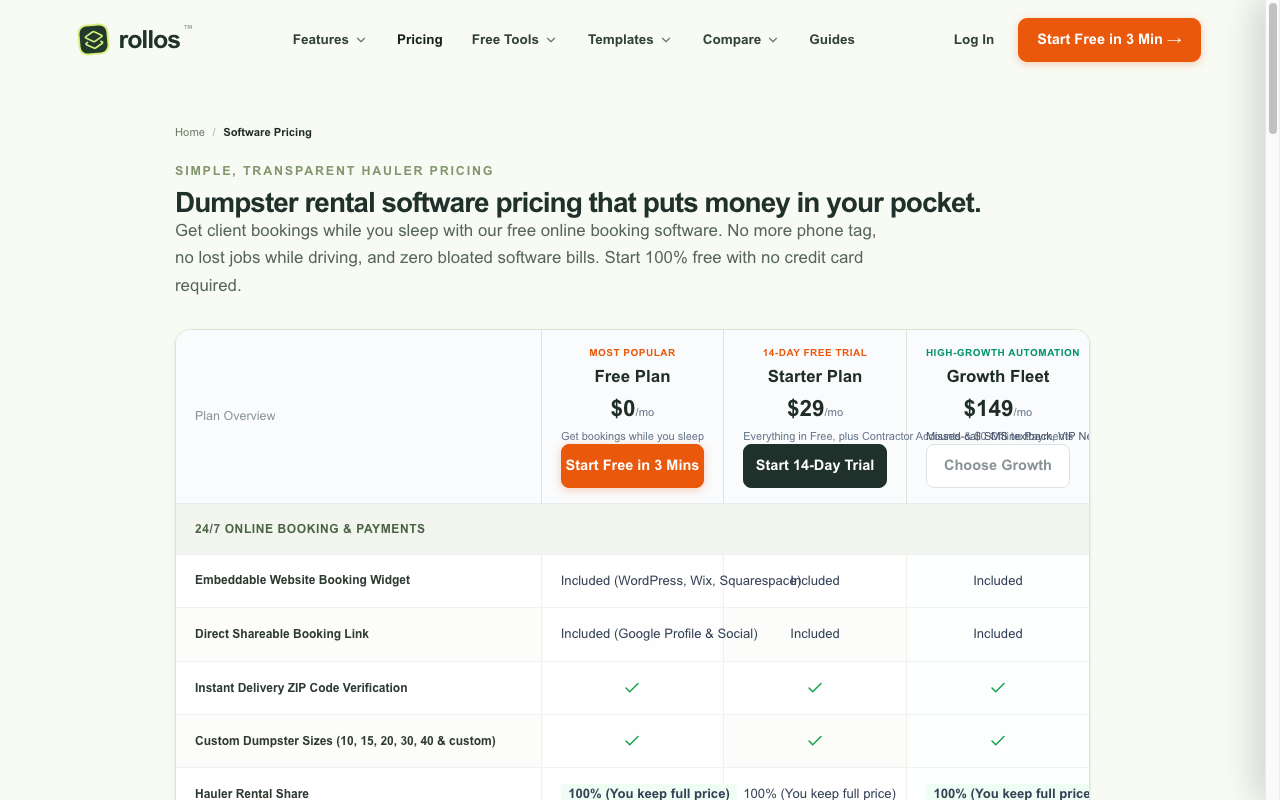
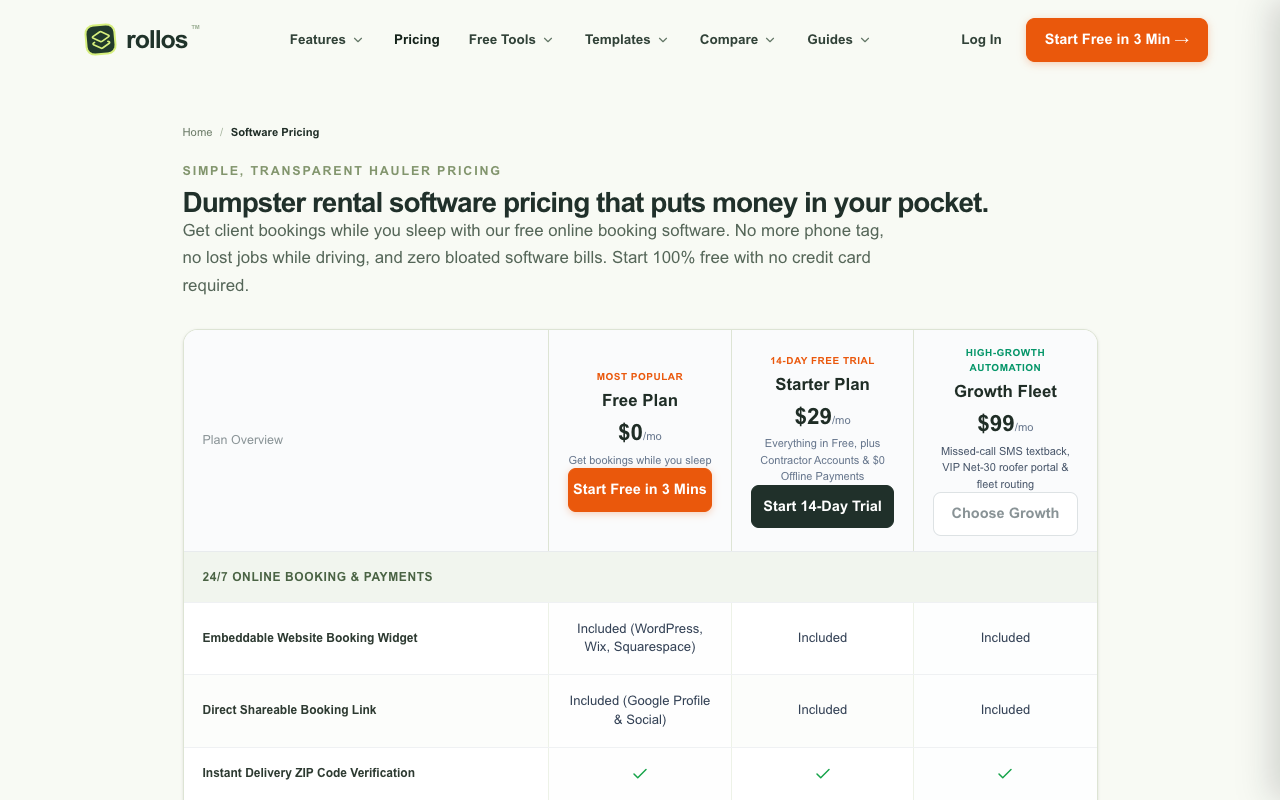
fix(seo): eliminate duplicate brand title tags, front-load keywords, align Growth tier pricing to /mo

diff --git a/src/app/pricing/page.tsx b/src/app/pricing/page.tsx
@@ -17,7 +17,7 @@ import { Footer } from '@/components/footer';
 import { SemanticBreadcrumb } from '@/components/semantic-breadcrumb';
 
 export const metadata = {
-  title: 'Dumpster Rental Software Pricing — Free, $29/mo & $99/mo Plans',
+  title: 'Dumpster Rental Software Pricing & Costs — Free, $29 & $99 Plans',
   description:
     'Transparent dumpster rental software pricing. Start free at $0/month to get bookings while you sleep, $29/mo Starter for contractor rates, or $99/mo Growth Fleet for Missed-Call SMS Auto-Textback and VIP Contractor Net-30 Portal, plus a $10/mo Winter Yard Hold for seasonal haulers.',
   alternates: {

diff --git a/src/components/pricing-matrix.tsx b/src/components/pricing-matrix.tsx
@@ -237,7 +237,10 @@ export function PricingMatrix() {
     <div className="w-full my-8">
       {/* 1. Desktop & Tablet View (Never Scrolls Horizontally) */}
       <div className="hidden md:block rounded-2xl border border-[#dde4d4] bg-white shadow-sm overflow-hidden">
-        <table className="w-full text-left border-collapse table-fixed">
+        <table
+          className="w-full text-left border-collapse table-fixed whitespace-normal"
+          style={{ whiteSpace: 'normal' }}
+        >
           <colgroup>
             <col style={{ width: '40%' }} />
             <col style={{ width: '20%' }} />

diff --git a/src/app/features/page.tsx b/src/app/features/page.tsx
@@ -25,7 +25,7 @@ import { SemanticBreadcrumb } from '@/components/semantic-breadcrumb';
 import { Footer } from '@/components/footer';
 
 export const metadata = {
-  title: 'Roll-Off Dumpster Software Features — Complete Operations Suite | RollOS',
+  title: 'Roll-Off Dumpster Software Features — Complete Operations Suite',
   description:
     'Explore the complete RollOS feature suite: 24/7 online booking, visual drag-and-drop dispatch, 1-tap SMS driver routes with zero app downloads, automated scale ticket overage billing, and real-time inventory.',
   alternates: {

diff --git a/src/app/page.tsx b/src/app/page.tsx
@@ -26,7 +26,7 @@ import { CheckoutReceiptPreview } from '@/components/checkout-receipt-preview';
 import { FounderNoteSection } from '@/components/founder-contact';
 
 export const metadata = {
-  title: 'Dumpster Rental Software — Free Online Booking & Dispatch | RollOS',
+  title: 'Dumpster Rental Software — Free Online Booking & Dispatch',
   description:
     'Dumpster rental software that books jobs and collects payments while you sleep. Free 24/7 online booking widget, visual dispatch board, and SMS driver routes. $0/mo free plan.',
   alternates: {

diff --git a/src/app/about/page.tsx b/src/app/about/page.tsx
@@ -14,7 +14,7 @@ import { SemanticBreadcrumb } from '@/components/semantic-breadcrumb';
 import { WhatsAppButton, SupportEmailButton } from '@/components/founder-contact';
 
 export const metadata = {
-  title: 'About RollOS — Dumpster Rental Software for Small & Mid-Size Haulers',
+  title: 'About Our Team — Dumpster Rental Software for Haulers',
   description:
     'RollOS is a cloud-based roll-off dumpster rental, online booking, and fleet dispatch software built for small and mid-size waste haulers operating from 1 to 25+ trucks.',
   alternates: {

diff --git a/src/app/templates/dumpster-rental-contract/page.tsx b/src/app/templates/dumpster-rental-contract/page.tsx
@@ -5,7 +5,7 @@ import { SemanticBreadcrumb } from '@/components/semantic-breadcrumb';
 import { Footer } from '@/components/footer';
 
 export const metadata = {
-  title: 'Dumpster Rental Contract Template — Free Hauler Agreement & Property Waiver',
+  title: 'Dumpster Rental Contract & Agreement Template — Free Waiver Format',
   description:
     'Free, copy-pasteable roll off dumpster rental contract agreement template. Complete with driveway damage waivers, prohibited hazardous waste clauses, and tonnage overage terms.',
   alternates: {

diff --git a/src/app/vs/docket/page.tsx b/src/app/vs/docket/page.tsx
@@ -7,7 +7,7 @@ import { VsVisualComparison } from '@/components/vs-visual-comparison';
 import { Footer } from '@/components/footer';
 
 export const metadata = {
-  title: 'RollOS vs Docket Dumpster Software (2026 In-Depth Review) — Pricing & Features',
+  title: 'Docket Dumpster Software Reviews & Pricing: Best 2026 Alternative',
   description:
     'Comprehensive comparison of RollOS vs Docket dumpster software. Compare hidden pricing vs $0/mo Free / $29 Starter, driver SMS links vs App Store apps, and online booking.',
   alternates: {

diff --git a/src/app/templates/dumpster-invoice/page.tsx b/src/app/templates/dumpster-invoice/page.tsx
@@ -5,7 +5,7 @@ import { SemanticBreadcrumb } from '@/components/semantic-breadcrumb';
 import { Footer } from '@/components/footer';
 
 export const metadata = {
-  title: 'Dumpster Rental Invoice Template — Free Overage & Disposal Bill Format',
+  title: 'Dumpster Rental Invoice Template — Free Overage & Disposal Bill',
   description:
     'Free commercial roll-off dumpster rental invoice template for haulers. Itemize base rental, extra days, certified scale slip weights, tare/gross math, and dispute-proof overages.',
   alternates: {

diff --git a/src/app/features/dispatch-board/page.tsx b/src/app/features/dispatch-board/page.tsx
@@ -13,7 +13,7 @@ import { SemanticBreadcrumb } from '@/components/semantic-breadcrumb';
 import { Footer } from '@/components/footer';
 
 export const metadata = {
-  title: 'Roll-Off Dispatch Software — Visual Drag & Drop Board | RollOS',
+  title: 'Roll-Off Dispatch Software — Visual Drag & Drop Whiteboard',
   description:
     'Manage roll-off containers, drivers, swaps, and pickups with an intuitive drag-and-drop dispatch board. Track container locations, eliminate whiteboards, and prevent double-booking.',
   alternates: {

diff --git a/src/app/vs/page.tsx b/src/app/vs/page.tsx
@@ -6,7 +6,7 @@ import { SavingsCalculator } from '@/components/savings-calculator';
 import { Footer } from '@/components/footer';
 
 export const metadata = {
-  title: 'Dumpster Rental Software Comparisons (2026 Reviews) — RollOS vs Competitors',
+  title: 'Dumpster Rental Software Comparisons (2026 Reviews) — Top Competitors',
   description:
     'Compare RollOS against Docket, ServiceCore, and Dumpster Rental Systems (DRS). Transparent pricing from $0/month, driver SMS links, and 24/7 online booking.',
   alternates: {

diff --git a/src/app/vs/dumpster-rental-systems/page.tsx b/src/app/vs/dumpster-rental-systems/page.tsx
@@ -6,7 +6,7 @@ import { SavingsCalculator } from '@/components/savings-calculator';
 import { Footer } from '@/components/footer';
 
 export const metadata = {
-  title: 'RollOS vs Dumpster Rental Systems (DRS Review 2026) — Pricing & Features',
+  title: 'Dumpster Rental Systems (DRS) Reviews & Pricing: Best Alternative',
   description:
     'Compare RollOS vs Dumpster Rental Systems (DRS). Why pay $195–$280/mo with 20-can limits? RollOS gives you unlimited cans, $0/mo free plan, and SMS driver links.',
   alternates: {

diff --git a/src/app/features/online-booking/page.tsx b/src/app/features/online-booking/page.tsx
@@ -15,7 +15,7 @@ import { SemanticBreadcrumb } from '@/components/semantic-breadcrumb';
 import { Footer } from '@/components/footer';
 
 export const metadata = {
-  title: 'Dumpster Rental Online Booking System — 24/7 Web Widget | RollOS',
+  title: 'Dumpster Rental Online Booking Software — 24/7 Website Widget',
   description:
     'Capture dumpster bookings 24/7 on your website with RollOS. Real-time ZIP code verification, Stripe Connect credit card payments, inventory check, and digital waivers.',
   alternates: {
